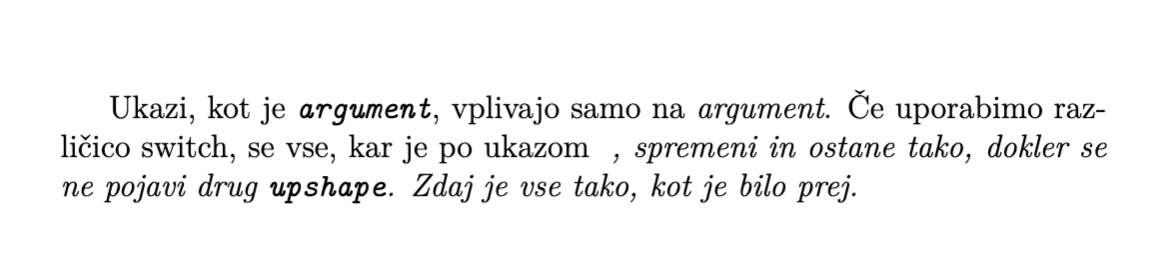
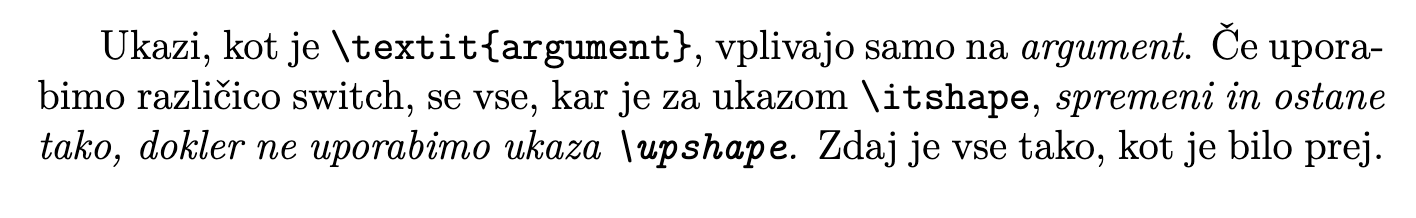
first chapter of 2627

Changed region(s): [[0.0312, 0.3303, 0.9983, 0.7706], [0.0624, 0.1101, 0.9983, 0.3303]]

diff --git a/01_latexUvod.md b/01_latexUvod.md
@@ -23,10 +23,11 @@ Zgrajen je na programu TeX, ki ga je leta 1978 razvil Donald E. Knuth.
 Prvo različico LaTeXa je leta 1983 napisal Leslie Lamport (od tod ime: **La**mport **TeX**).
 Gre za zbirko dodatnih ukazov za TeX, ki avtorju omogočajo, da dokument opiše po njegovi _zgradbi_ (naslov, razdelek, poudarek), oblikovanje pa prepusti že pripravljenim profesionalnim vzorcem.
 
-Trenutna standardna verzija je LaTeX2e (1994), zanj pa je odgovoren Frank Mittelbach. LaTeX se izgovori 'láteh', po angleško pa običajno rečemo 'lejteh'.
-
+Trenutna standardna verzija je LaTeX2e (1994), zanj pa je odgovoren Frank Mittelbach. 
 Čeprav je LaTeX2e star že več kot trideset let, se njegovo jedro posodablja dvakrat letno.
 Zato marsikateri nasvet, ki ga najdete na spletu, danes ni več potreben. Na to bomo sproti opozarjali.
+
+LaTeX se izgovori 'láteh', po angleško pa običajno rečemo 'lejteh'.
 
 Ko želi _avtor_ kaj objaviti, pošlje svoj rokopis založniku.
 Tam _knjižni opremljevalec_ določi obliko dokumenta (širino stolpcev, obliko črk, velikost presledkov pred in po naslovih ...).
@@ -126,7 +127,7 @@ Izkazalo se je, da njegov tiskalnik tiska samo črno-belo, zato vaši barvi zanj
 
 Enostavna rešitev! Vse zeleno besedilo spremenite v kurzivno pisavo, ostalo pa pustite pokončno.
 Ko ste ročno predelali že prvih 120 strani, pa ste se spomnili, da kurzivno pisavo ponekod uporabljate tudi za poudarjanje, na primer:
-[Ali boš *to* jedla?]{.latex-line .text-green}
+{span .latex-line .text-green}`Ali boš *to* jedla?`
 Zdaj boste morali pregledati še vsak odstavek posebej, poiskati vse take poudarke in jih spremeniti v kak drug slog. Šele nato lahko preostalo zeleno besedilo mirno spremenite v kurzivo.
 
 **Vidite neskončni problem?**
@@ -925,11 +926,11 @@ Ukaz `\textnormal` je le kombinacija obeh.
 size (velikost)
 : To se večinoma nadzira z možnostmi ukaza `\documentclass`, vendar o tem več kasneje.
 
-Če želite spremeniti enega od prvih treh parametrov v danem besedilu, preprosto uporabite ukaze, kot je `\ukaz{dano besedilo}`. Npr. z ukazom `\textbf{To je krepko besedilo}` dobimo [**To je krepko besedilo**]{.latex-line} in z ukazom `\textit{To je ležeče besedilo}` dobimo [*To je ležeče besedilo*]{.latex-line}.
+Če želite spremeniti enega od prvih treh parametrov v danem besedilu, preprosto uporabite ukaze, kot je `\ukaz{dano besedilo}`. Npr. z ukazom `\textbf{To je krepko besedilo}` dobimo {span .latex-line}`**To je krepko besedilo**` in z ukazom `\textit{To je ležeče besedilo}` dobimo {span .latex-line}`*To je ležeče besedilo*`.
 
 :::{admonition} Pazite!
 :class: warning
-Zgoraj prikazane ukaze lahko tudi združujemo, npr. `\textit{\textbf{To je krepko in ležeče besedilo}}` da [**_To je krepko in ležeče besedilo_**]{.latex-line}.
+Zgoraj prikazane ukaze lahko tudi združujemo, npr. z ukazom `\textit{\textbf{To je krepko in ležeče besedilo}}` dobimo {span .latex-line}`**_To je krepko in ležeče besedilo_**`.
 Vendar niso vse kombinacije na voljo: če poskusite uporabiti kombinacijo, ki ne obstaja, se bo LaTeX pritožil.
 :::
 
